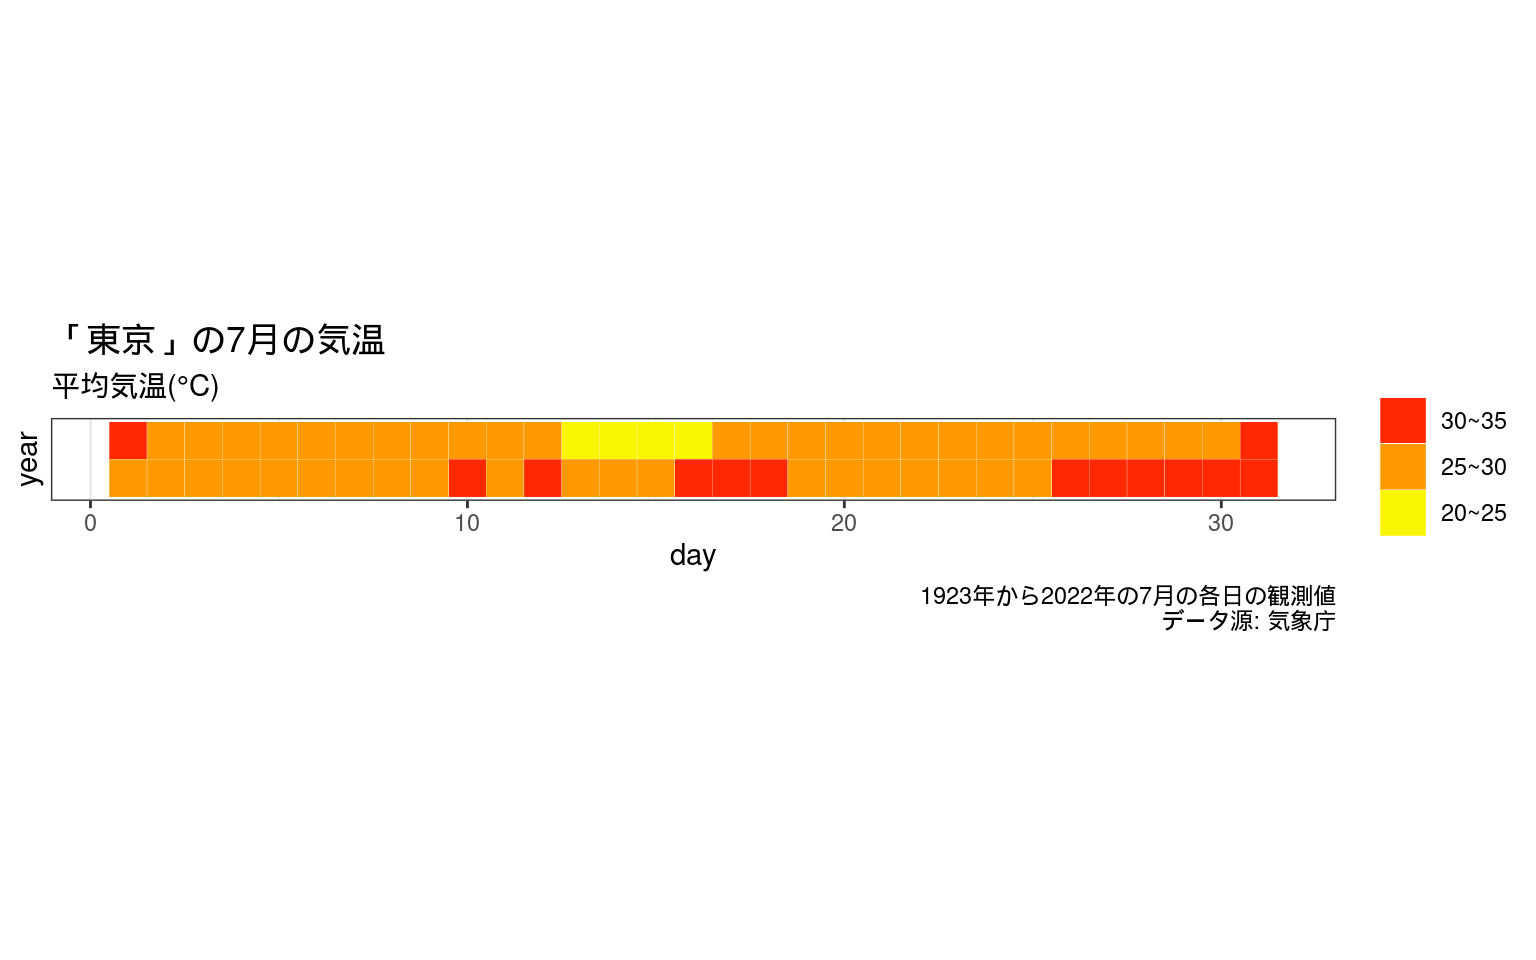
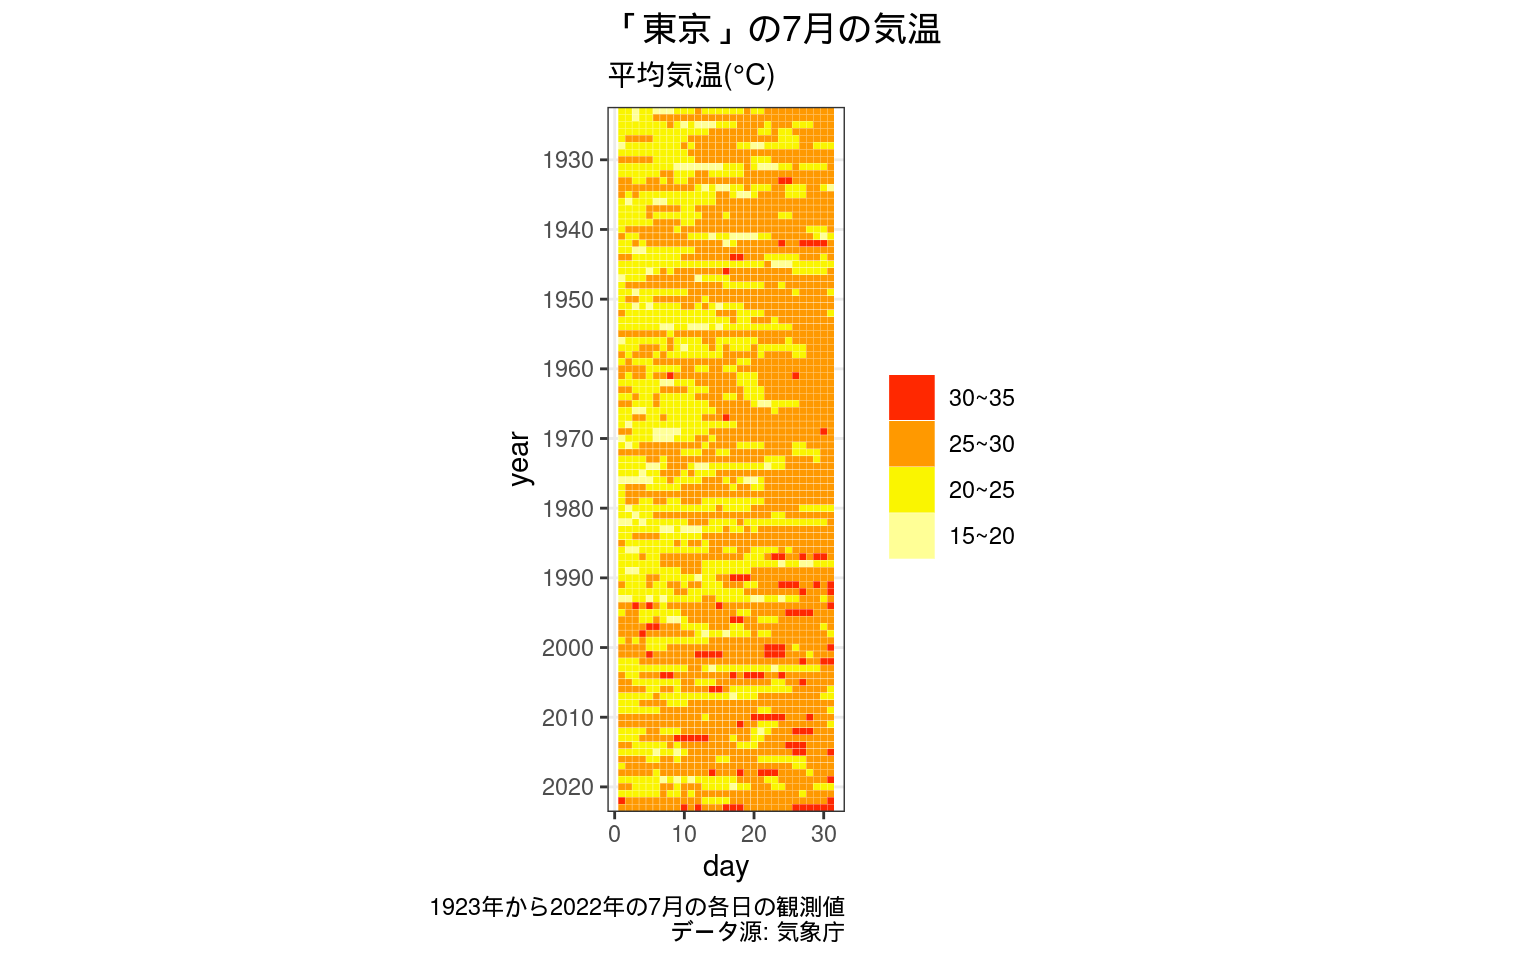
Update

Changed region(s): [[0.0312, 0.0, 0.875, 1.0], [0.875, 0.4062, 1.0, 0.5625], [0.0, 0.4375, 0.0312, 0.5]]

diff --git a/content/quarto/try-quatro/index.md b/content/quarto/try-quatro/index.md
@@ -33,8 +33,8 @@ stations |>
 
 ``` r
 df_tksm <-
-  # year引数に与えられる年を指定 ... 2021年から2022年まで
-  seq.int(2022, 2023) |>
+  # year引数に与えられる年を指定 ... 1923年から2022年まで
+  seq.int(1923, 2023) |>
   purrr::set_names() |>
   purrr::map(
     \(x) jma_collect(item = "daily",
@@ -49,10 +49,10 @@ df_tksm <-
 glimpse(df_tksm)
 ```
 
-    Rows: 62
+    Rows: 3,131
     Columns: 10
-    $ year          <chr> "2022", "2022", "2022", "2022", "2022", "2022", "2022", …
-    $ date          <date> 2022-07-01, 2022-07-02, 2022-07-03, 2022-07-04, 2022-07…
+    $ year          <chr> "1923", "1923", "1923", "1923", "1923", "1923", "1923", …
+    $ date          <date> 1923-07-01, 1923-07-02, 1923-07-03, 1923-07-04, 1923-07…
     $ pressure      <tibble[,2]> <tbl_df[26 x 2]>
     $ precipitation <tibble[,3]> <tbl_df[26 x 3]>
     $ temperature   <tibble[,3]> <tbl_df[26 x 3]>
@@ -75,13 +75,13 @@ df_tksm <-
 glimpse(df_tksm)
 ```
 
-    Rows: 62
+    Rows: 3,131
     Columns: 5
-    $ year         <chr> "2022", "2022", "2022", "2022", "2022", "2022", "2022", "…
-    $ date         <date> 2022-07-01, 2022-07-02, 2022-07-03, 2022-07-04, 2022-07-…
-    $ `average(℃)` <dbl> 30.4, 29.5, 28.9, 26.5, 26.2, 26.0, 25.5, 26.0, 26.6, 27.…
-    $ `max(℃)`     <dbl> 37.0, 35.2, 35.3, 29.3, 32.1, 31.1, 31.4, 31.0, 32.0, 31.…
-    $ `min(℃)`     <dbl> 25.4, 25.4, 25.2, 24.4, 23.9, 23.6, 23.1, 22.4, 21.8, 24.…
+    $ year         <chr> "1923", "1923", "1923", "1923", "1923", "1923", "1923", "…
+    $ date         <date> 1923-07-01, 1923-07-02, 1923-07-03, 1923-07-04, 1923-07-…
+    $ `average(℃)` <dbl> 20.0, 20.0, 19.9, 22.4, 21.0, 19.2, 18.5, 19.5, 22.2, 23.…
+    $ `max(℃)`     <dbl> 22.1, 23.2, 23.8, 27.9, 23.4, 24.9, 21.6, 23.6, 26.8, 27.…
+    $ `min(℃)`     <dbl> 18.5, 18.0, 17.0, 16.2, 17.3, 15.4, 15.8, 14.7, 19.7, 20.…
 
 ``` r
 df_tksm <-
@@ -99,13 +99,13 @@ df_tksm <-
 glimpse(df_tksm)
 ```
 
-    Rows: 62
+    Rows: 3,131
     Columns: 5
-    $ year    <chr> "2022", "2022", "2022", "2022", "2022", "2022", "2022", "2022"…
-    $ date    <date> 2022-07-01, 2022-07-02, 2022-07-03, 2022-07-04, 2022-07-05, 2…
-    $ average [°C] 30.4 [°C], 29.5 [°C], 28.9 [°C], 26.5 [°C], 26.2 [°C], 26.0 [°C…
-    $ max     [°C] 37.0 [°C], 35.2 [°C], 35.3 [°C], 29.3 [°C], 32.1 [°C], 31.1 [°C…
-    $ min     [°C] 25.4 [°C], 25.4 [°C], 25.2 [°C], 24.4 [°C], 23.9 [°C], 23.6 [°C…
+    $ year    <chr> "1923", "1923", "1923", "1923", "1923", "1923", "1923", "1923"…
+    $ date    <date> 1923-07-01, 1923-07-02, 1923-07-03, 1923-07-04, 1923-07-05, 1…
+    $ average [°C] 20.0 [°C], 20.0 [°C], 19.9 [°C], 22.4 [°C], 21.0 [°C], 19.2 [°C…
+    $ max     [°C] 22.1 [°C], 23.2 [°C], 23.8 [°C], 27.9 [°C], 23.4 [°C], 24.9 [°C…
+    $ min     [°C] 18.5 [°C], 18.0 [°C], 17.0 [°C], 16.2 [°C], 17.3 [°C], 15.4 [°C…
 
 ``` r
 df_tksm <- 
